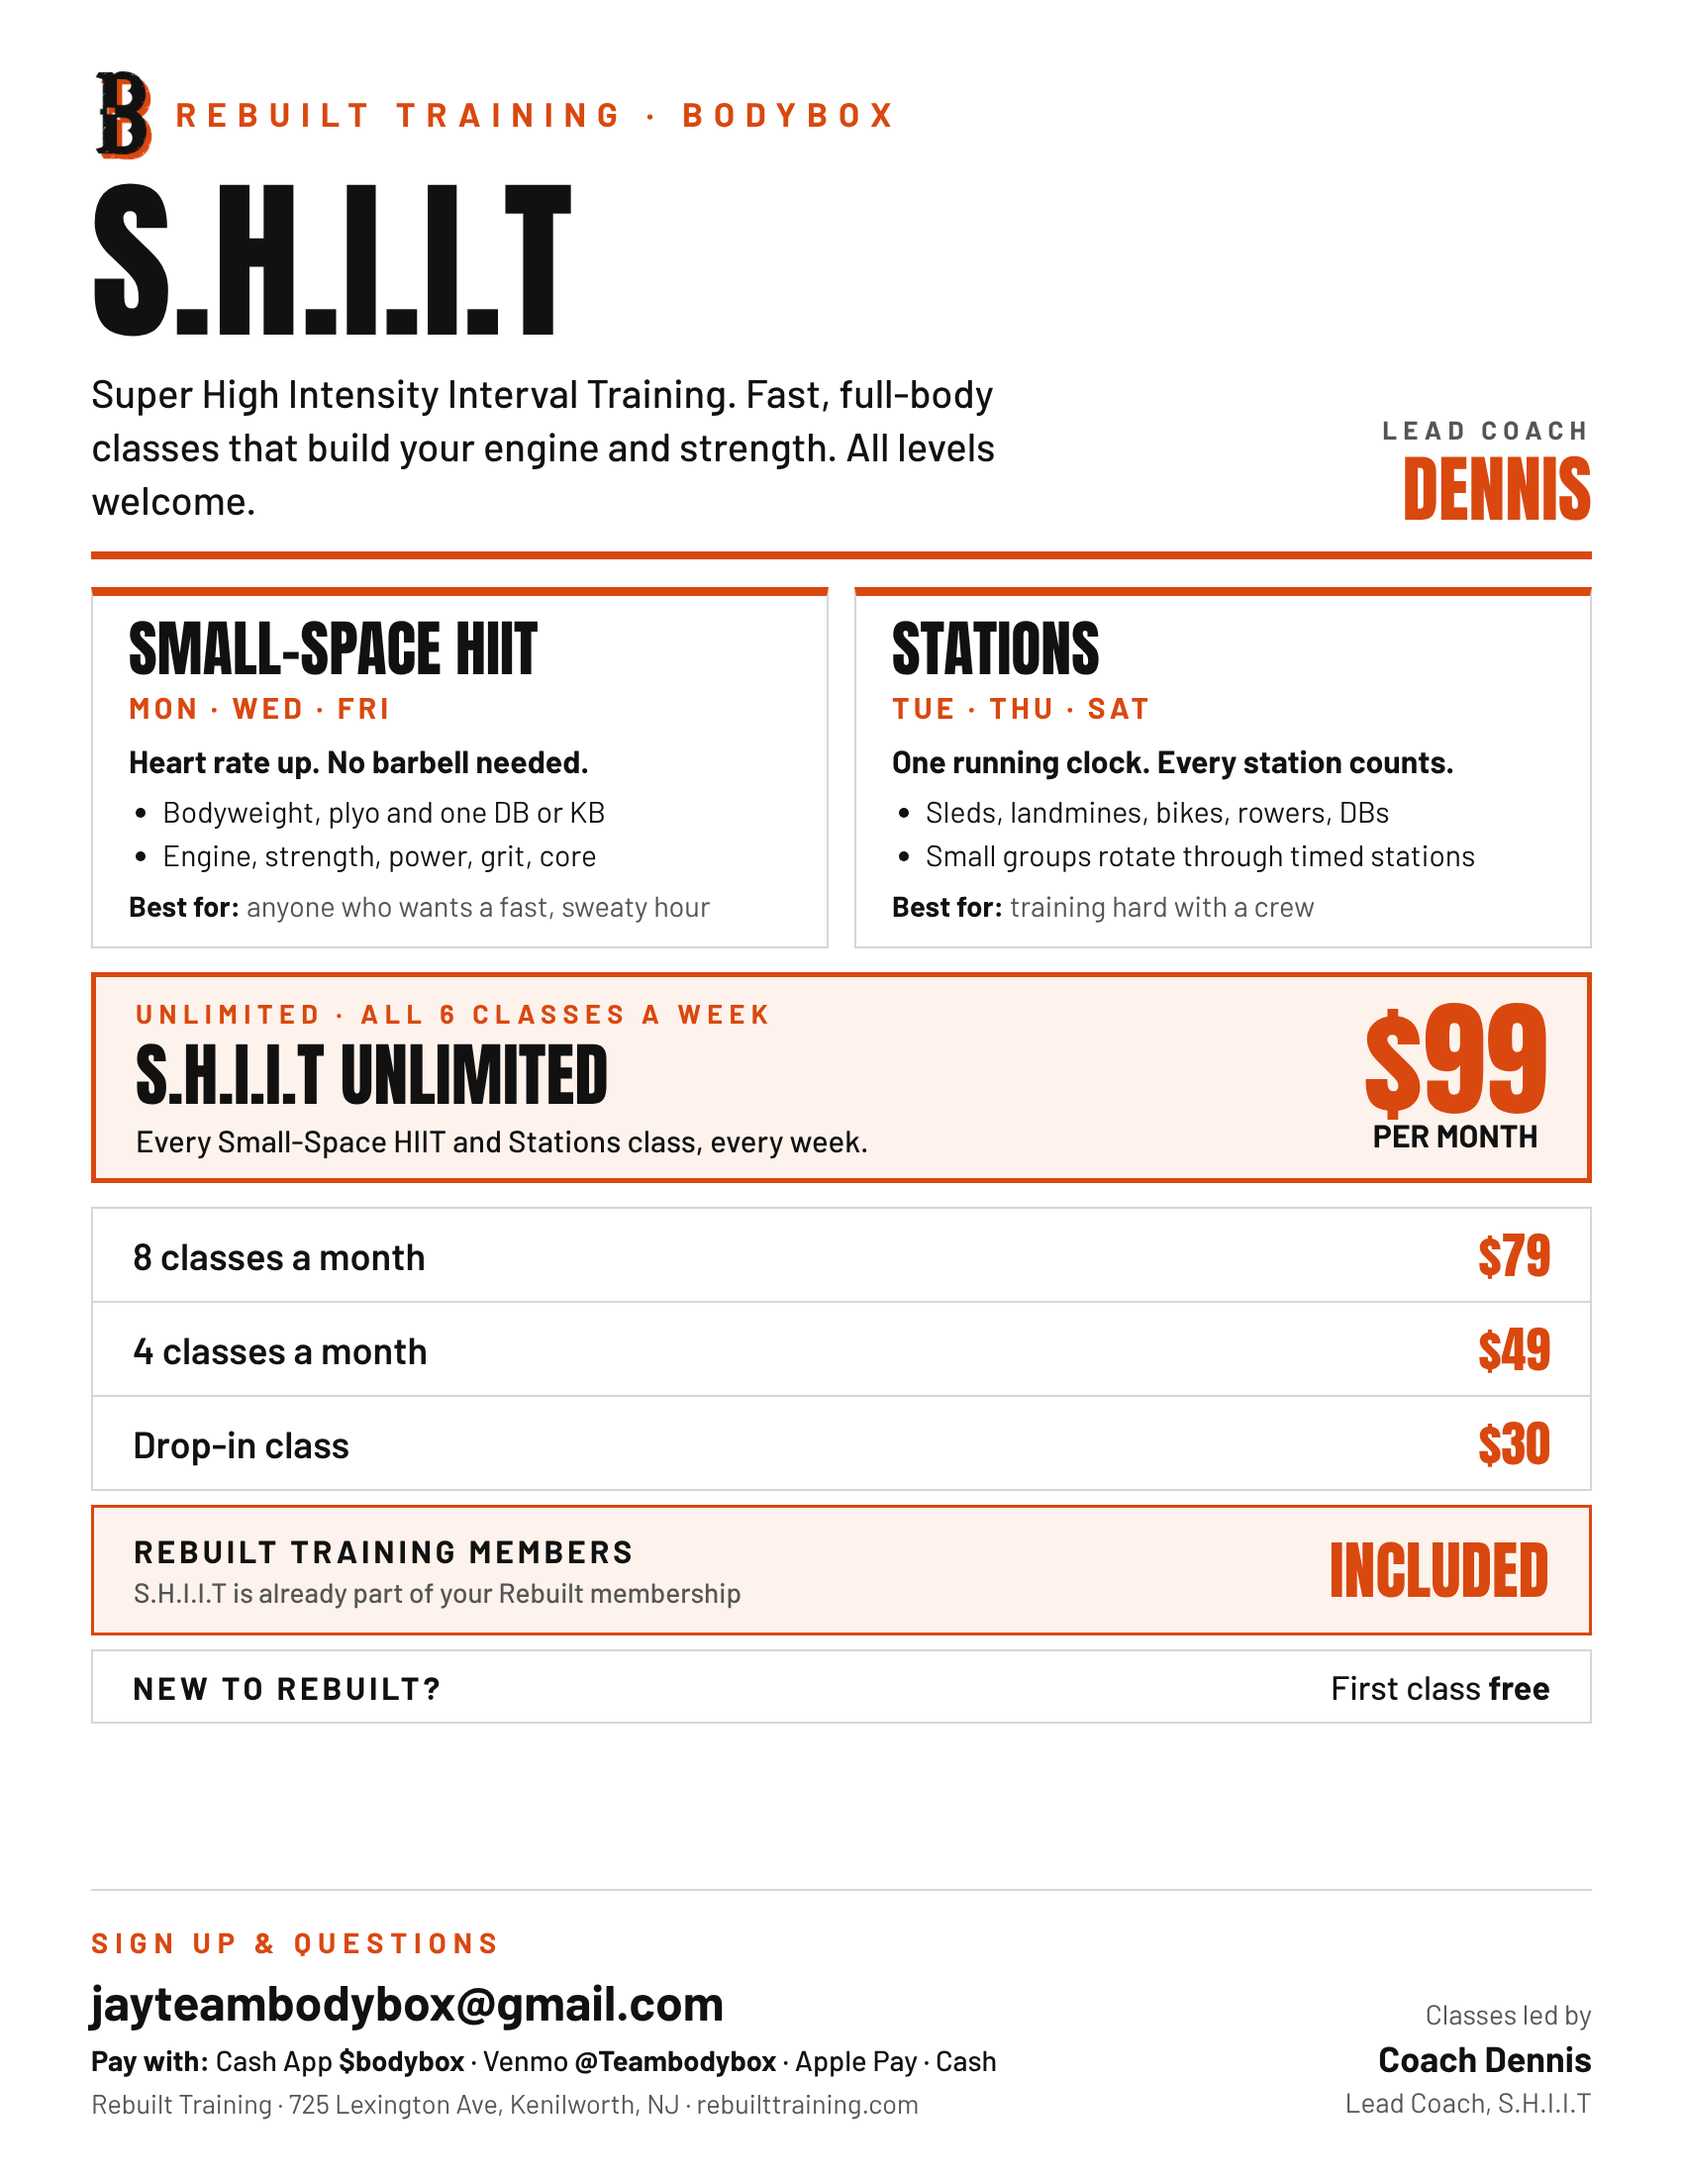
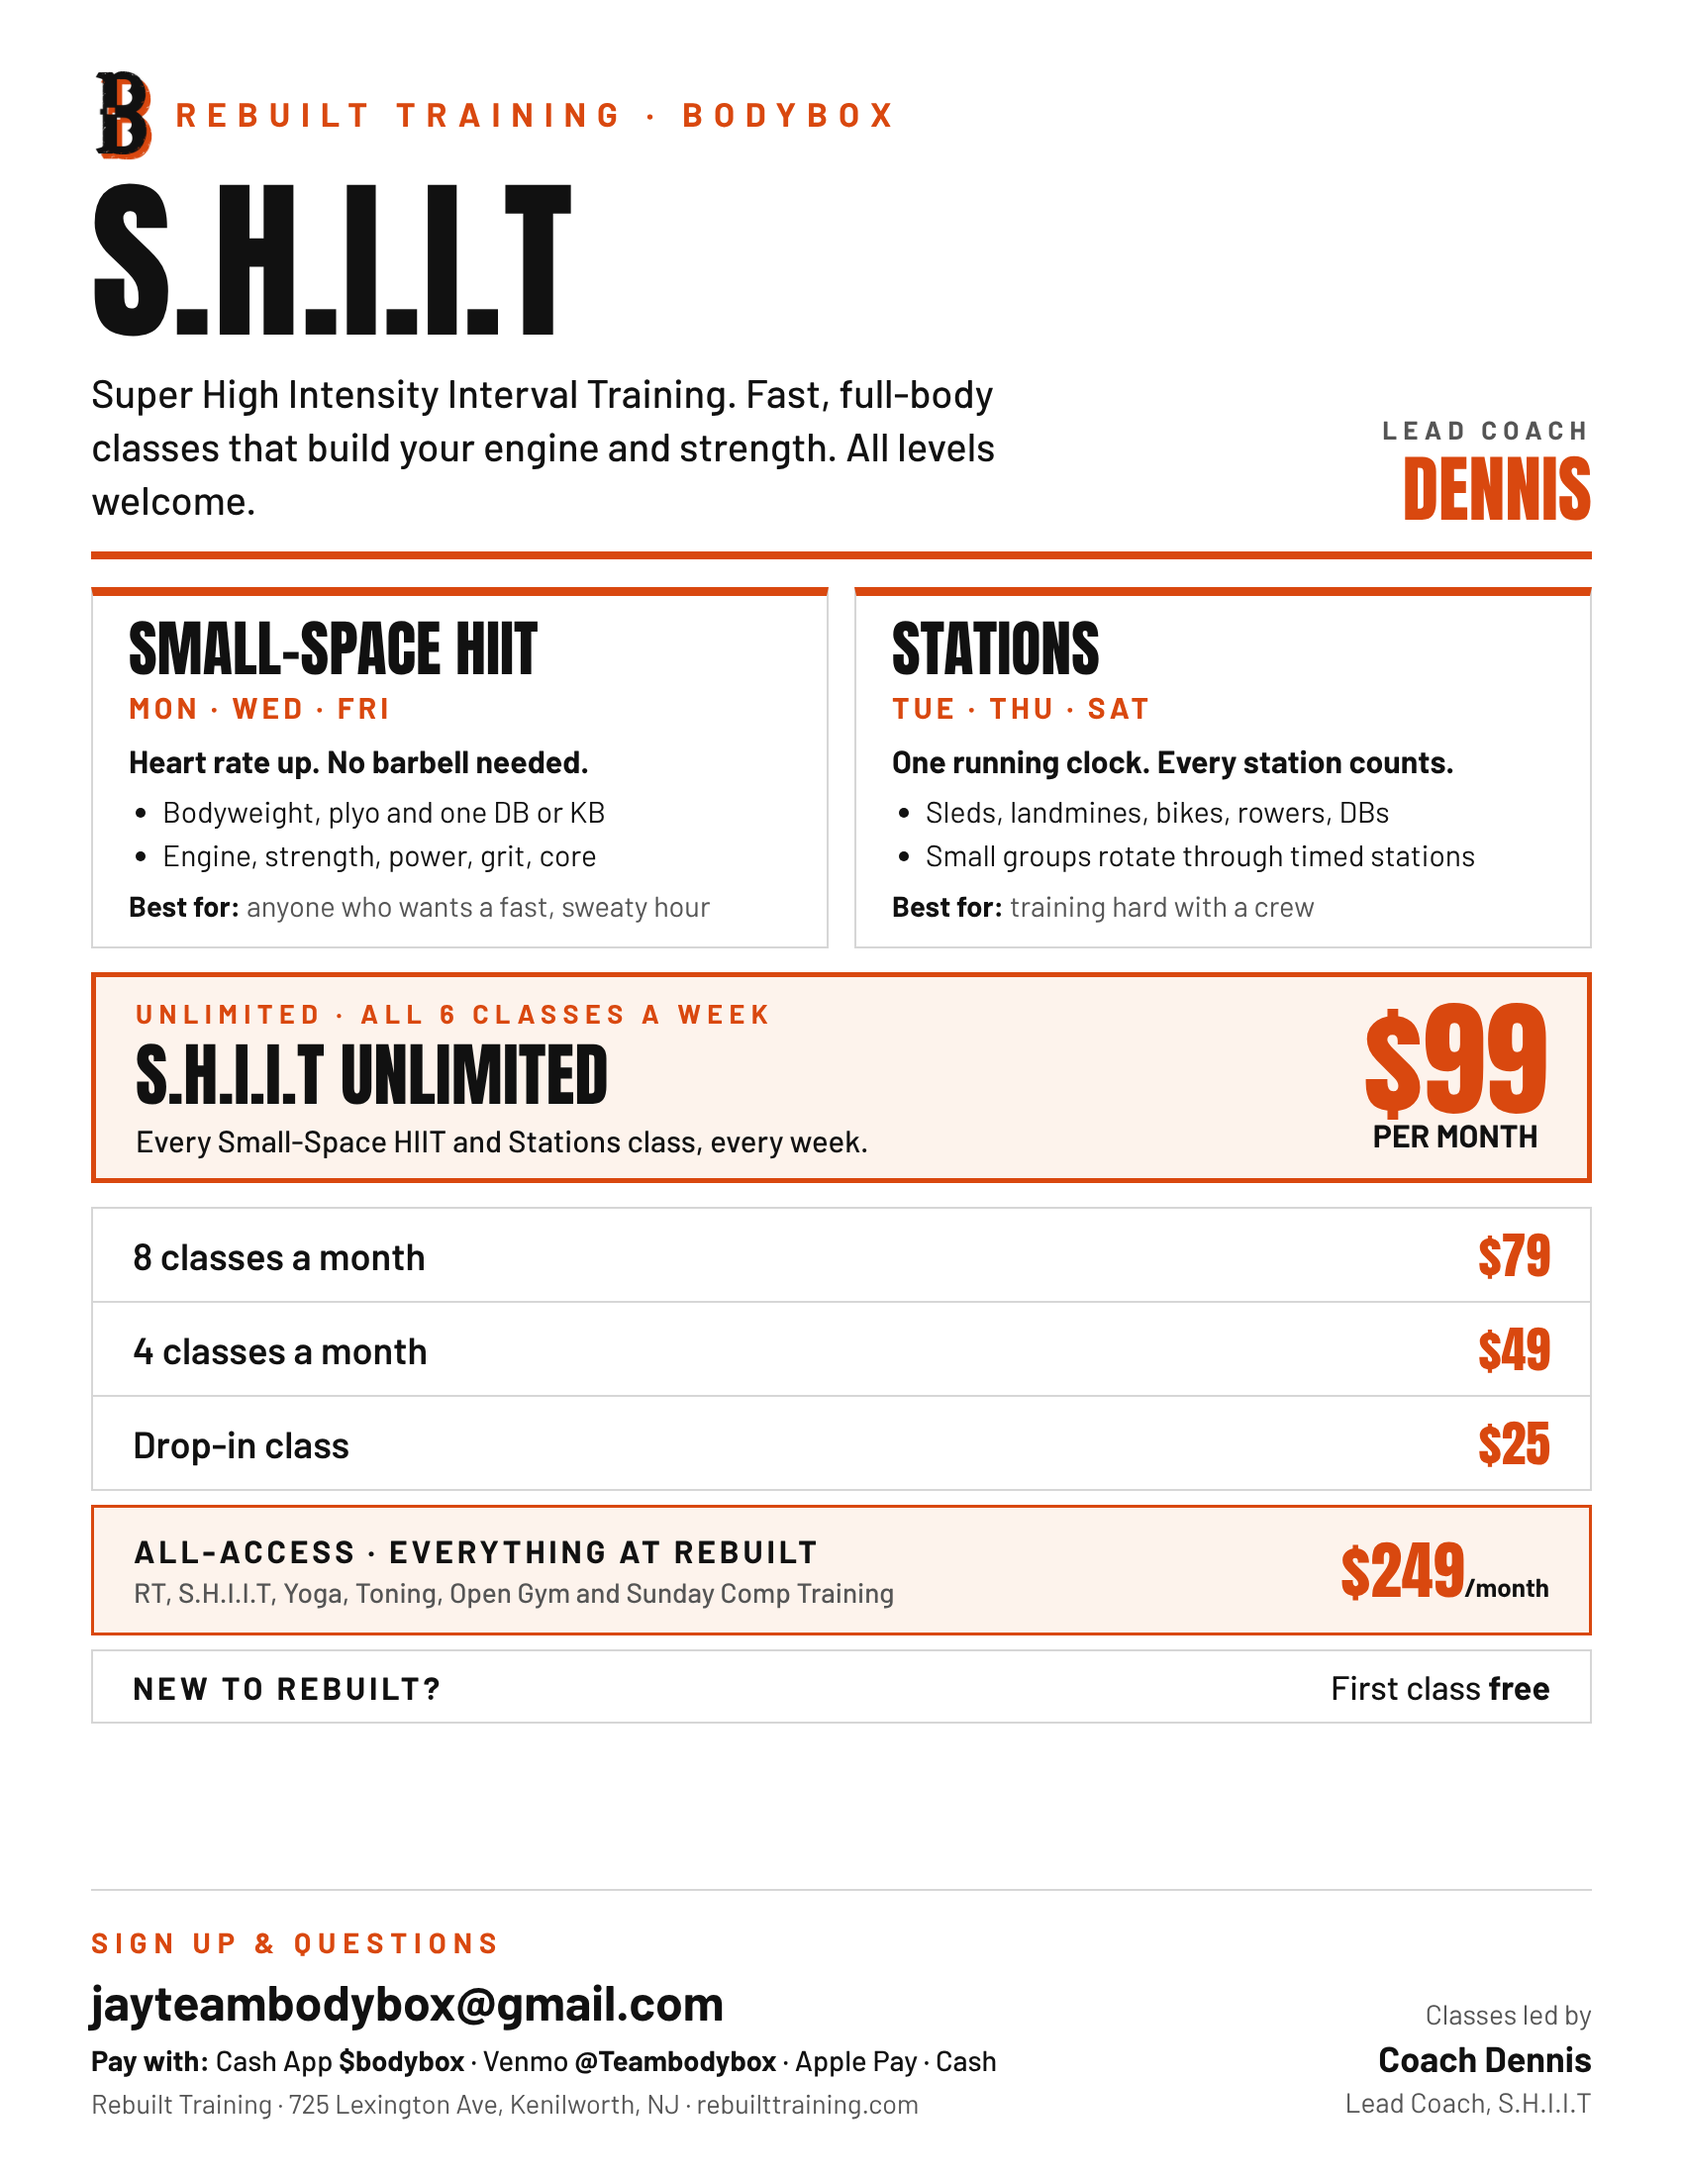
S.H.I.I.T flyer back to the October plan (drop-in $25, All-Access $249); staff card for admins with no programs; Jameson's contact email in payment messages
Claude-Session: https://claude.ai/code/session_017vtccbFEVB3hDaqVSYQ9np

Changed region(s): [[0.0624, 0.7109, 0.53, 0.7418], [0.7794, 0.7109, 0.9353, 0.7418], [0.9041, 0.6491, 0.9353, 0.68]]

diff --git a/admin/index.html b/admin/index.html
@@ -160,7 +160,7 @@ const PROGS = [['comp','Athlete Comp'],['build','Building'],['cardio','Cardio'],
 const PERSONAL = ['personal','Personal'];
 const PLANS = { comp:'Athlete Comp', build:'Body Box Building', cardio:'Cardio', garage:'Garage Box', all3:'All 3 Programs', coach:'Personal Coaching', staff:'Coach access' };
 const PLAN_PROGS = { comp:['comp'], build:['build'], cardio:['cardio'], garage:['garage'], all3:['comp','build','cardio'], coach:['comp','build','cardio'] };
-const PRICE_DEFAULT = 'BODYBOX prices (per month)\n- One program (Athlete Comp, Body Box Building or Cardio): $35\n- All 3 programs: $69\n- All 3 programs + personal programming from Coach Reef: $129\n- Garage Box: $25\nPayment is due on the 1st of every month. If it isn\'t in by 7:59 PM on the 1st, your programming pauses. Pay by the 5th and it comes right back.\nPayments and account questions: message Jameson in the app chat or email teambodybox@gmail.com';
+const PRICE_DEFAULT = 'BODYBOX prices (per month)\n- One program (Athlete Comp, Body Box Building or Cardio): $35\n- All 3 programs: $69\n- All 3 programs + personal programming from Coach Reef: $129\n- Garage Box: $25\nPayment is due on the 1st of every month. If it isn\'t in by 7:59 PM on the 1st, your programming pauses. Pay by the 5th and it comes right back.\nPayments and account questions: message Jameson in the app chat or email jayteambodybox@gmail.com';
 
 const $ = s => document.querySelector(s), esc = s => String(s == null ? '' : s).replace(/[&<>"']/g, c => ({'&':'&amp;','<':'&lt;','>':'&gt;','"':'&quot;',"'":'&#39;'}[c]));
 const pad = n => String(n).padStart(2,'0'), ymd = d => d.getFullYear()+'-'+pad(d.getMonth()+1)+'-'+pad(d.getDate()), today = () => ymd(new Date());
@@ -370,7 +370,7 @@ const payBlock = (P, b, first) => { const c = payCfg(P), l = payLink(P, b, first
 const priceMsg = (P, txt) => { const c = payCfg(P); return (txt + (c.venmo ? '\nVenmo: https://venmo.com/u/'+c.venmo : '') + (c.other ? '\n'+c.other : '')).slice(0, 600); };
 const prices = () => priceMsg(D.bill._prices, (D.bill._prices && D.bill._prices.text) || PRICE_DEFAULT);
 const reminderText = r => { const b = D.bill[r.id] || {}, s = payState(b), first = (r.name||'').split(' ')[0];
-  return 'Hey '+first+', quick reminder: your BODYBOX payment '+(s.k === 'ok' ? 'is due '+fmtD(b.paidThrough) : 'is due')+'. If it isn\'t in by 7:59 PM on the 1st, your programming pauses. Pay by the 5th and it comes right back. Questions? Message Jameson in the app chat or email teambodybox@gmail.com' + payBlock(D.bill._prices, b, first); };
+  return 'Hey '+first+', quick reminder: your BODYBOX payment '+(s.k === 'ok' ? 'is due '+fmtD(b.paidThrough) : 'is due')+'. If it isn\'t in by 7:59 PM on the 1st, your programming pauses. Pay by the 5th and it comes right back. Questions? Message Jameson in the app chat or email jayteambodybox@gmail.com' + payBlock(D.bill._prices, b, first); };
 const markPaid = r => { const b = D.bill[r.id] || {}, nx = addMonth(b.paidThrough || firstOfMonth(today())); return saveBill(r.id, { paidThrough: nx, lastPaid: today() }).then(ok => ({ ok, nx })); };
 function wireMembers(rows){
   const V = $('#view'), byId = id => D.members.find(x => x.id === id);
@@ -436,7 +436,7 @@ function inviteEmail(v){
     '4. We approve you. Usually same day. The app opens by itself once you\'re in.\n'+
     '5. Tap Me and check your numbers.\n6. Train and log every set and score.\n\n'+
     'Put it on your home screen: on iPhone open the link in Safari, tap Share, then Add to Home Screen. Open it from there and tap Turn on so you get the 8 PM "tomorrow\'s workout is up" alert.\n\n'+
-    'YOUR FREE WEEK\nYour 7-day free trial runs '+fmtD(v.trialStart)+' to '+fmtD(trialEnd)+'. '+(v.rate ? 'Then it\'s $'+v.rate+' a month. ' : '')+'Your first payment is due '+fmtD(v.firstPay)+(v.lineUp ? ', so you\'re on the same schedule as the rest of the team (the 1st of every month)' : '')+'. Payments and account questions: message Jameson in the app chat or email teambodybox@gmail.com\n\n'+
+    'YOUR FREE WEEK\nYour 7-day free trial runs '+fmtD(v.trialStart)+' to '+fmtD(trialEnd)+'. '+(v.rate ? 'Then it\'s $'+v.rate+' a month. ' : '')+'Your first payment is due '+fmtD(v.firstPay)+(v.lineUp ? ', so you\'re on the same schedule as the rest of the team (the 1st of every month)' : '')+'. Payments and account questions: message Jameson in the app chat or email jayteambodybox@gmail.com\n\n'+
     'Team BodyBox\nKEEP DOING GREAT THINGS' };
 }
 let INV = null;
@@ -532,7 +532,7 @@ function renderCh(){
 const FLYERS = [
   { id:'programs', name:'BODYBOX Programs flyer', png:'bodybox-prices.png', pdf:'bodybox-prices.pdf', dl:'BODYBOX-Programs-Flyer', desc:'The programs and app prices: $35 a program, $69 for all 3, Garage Box $25, S.H.I.I.T $35 for 4 weeks, Rebuilt member prices, 7 days free.' },
   { id:'yoga', name:'Yoga & Toning flyer', png:'yoga-toning-prices.png', pdf:'yoga-toning-prices.pdf', dl:'Yoga-Toning-Flyer', desc:'Yoga & Toning classes at Rebuilt with Lead Coach Monalisa: unlimited $129, 8 a month $99, 4 a month $59, drop-in $20 ($10 members), Rebuilt Unlimited + Yoga & Toning $240, $40 member add-on, first month $59.' },
-  { id:'shiit', name:'S.H.I.I.T flyer', png:'shiit-prices.png', pdf:'shiit-prices.pdf', dl:'SHIIT-Flyer', desc:'S.H.I.I.T classes at Rebuilt with Lead Coach Dennis: unlimited $99, 8 a month $79, 4 a month $49, drop-in $30, included for Rebuilt members, first class free.' },
+  { id:'shiit', name:'S.H.I.I.T flyer', png:'shiit-prices.png', pdf:'shiit-prices.pdf', dl:'SHIIT-Flyer', desc:'S.H.I.I.T classes at Rebuilt with Lead Coach Dennis: unlimited $99, 8 a month $79, 4 a month $49, drop-in $25, All-Access $249, first class free.' },
   { id:'reef', name:'Train With Reef flyer', png:'train-with-reef.png', pdf:'', dl:'Train-With-Reef-Flyer', desc:'In-person coaching with Coach Reef at Rebuilt: 1:1 $170, 2:1 $105 each, 3:1 $85 each per session, plus remote and programs prices.' }
 ];
 // Nov 18: Jameson can upload new flyers or new versions here (stored in flyers/{id} + flyerpdfs/{id}; public read for share links)

diff --git a/app2/index.html b/app2/index.html
@@ -3238,6 +3238,7 @@ if(Array.isArray(D.named)) D.named = D.named.filter(c => !/heavy weights/i.test(
   function memberHtml2(){
     const progs = memProgs();
     if(!progs.length || memAdding){
+      if(window.__bbFire && window.__bbAdmin) return '<section class="unlock"><span class="label">Admin</span><h2>Staff account</h2><p class="how">No training programs on this account. Use <b>Members</b> and <b>Team</b> at the bottom right, the chat bubble for messages, or the full <a href="https://reefwtraining.github.io/bodybox/admin/" target="_blank" rel="noopener">admin website ↗</a>.</p></section>';
       if(window.__bbFire) return '<section class="unlock"><span class="label">Members</span><h2>Your programs are on the way</h2><p class="how">Coach Reef turns on your programs from his side. Once he does, close and reopen the app and your training shows here.</p></section>';
       return '<section class="unlock"><span class="label">Members</span><h2>'+(memAdding?'Add a program code':'Unlock your programming')+'</h2>'+
         '<p>Enter the program code you got when you signed up. Your code stays on this phone.</p>'+
@@ -5452,7 +5453,7 @@ function payState(b){
   if(late < 5) return { k:'due', t:'Due '+fmtD(pt)+(late ? ' · '+late+' day'+(late>1?'s':'')+' late' : ' · today') };
   return { k:'late', t:'Not paid since '+fmtD(pt)+' · past the 5th' };
 }
-const PRICE_DEFAULT = 'BODYBOX prices (per month)\n- One program (Athlete Comp, Body Box Building or Cardio): $35\n- All 3 programs: $69\n- All 3 programs + personal programming from Coach Reef: $129\n- Garage Box: $25\nPayment is due on the 1st of every month. If it isn\'t in by 7:59 PM on the 1st, your programming pauses. Pay by the 5th and it comes right back.\nPayments and account questions: message Jameson in the app chat or email teambodybox@gmail.com';
+const PRICE_DEFAULT = 'BODYBOX prices (per month)\n- One program (Athlete Comp, Body Box Building or Cardio): $35\n- All 3 programs: $69\n- All 3 programs + personal programming from Coach Reef: $129\n- Garage Box: $25\nPayment is due on the 1st of every month. If it isn\'t in by 7:59 PM on the 1st, your programming pauses. Pay by the 5th and it comes right back.\nPayments and account questions: message Jameson in the app chat or email jayteambodybox@gmail.com';
 // Nov 17: how athletes pay. Venmo link opens Venmo with Team BodyBox, their amount and a note filled in.
 const payCfg = P => ({ venmo: String(P && P.venmo != null ? P.venmo : 'teambodybox').replace(/^@/, '').trim(), other: P && P.other != null ? P.other : 'Also: Cash App $bodybox, Apple Pay or cash' });
 const payMonth = b => { const ds = (b && b.paidThrough && b.paidThrough >= todayStr()) ? b.paidThrough : todayStr(); return ['Jan','Feb','Mar','Apr','May','Jun','Jul','Aug','Sep','Oct','Nov','Dec'][+ds.slice(5,7)-1]; };
@@ -5504,7 +5505,7 @@ async function openPay(){
       if(await save(id, { paidThrough: nx, lastPaid: todayStr() })){ if(!r.approved || !(r.progs||[]).length) alert('Saved. Their programs are off. Turn them back on in Members.'); } draw(); });
     box.querySelectorAll('[data-price]').forEach(b => b.onclick = async () => { const r = rows.find(x => x.id === b.dataset.price); if(!confirm('Send the price sheet to '+(r.name||'them')+' in the app chat?')) return; b.disabled = true; try{ await sendDm(r.id, priceMsg(BILL._prices, prices)); b.textContent = 'Sent'; }catch(e){ b.textContent = 'Couldn\'t send'; b.disabled = false; } });
     box.querySelectorAll('[data-remind]').forEach(b => b.onclick = async () => { const r = rows.find(x => x.id === b.dataset.remind), s = payState(BILL[r.id]), first = (r.name||'').split(' ')[0];
-      const t = 'Hey '+first+', quick reminder: your BODYBOX payment '+(s.k === 'ok' ? 'is due '+fmtD(BILL[r.id].paidThrough) : 'is due')+'. If it isn\'t in by 7:59 PM on the 1st, your programming pauses. Pay by the 5th and it comes right back. Questions? Message Jameson in the app chat or email teambodybox@gmail.com' + payBlock(BILL._prices, BILL[r.id], first);
+      const t = 'Hey '+first+', quick reminder: your BODYBOX payment '+(s.k === 'ok' ? 'is due '+fmtD(BILL[r.id].paidThrough) : 'is due')+'. If it isn\'t in by 7:59 PM on the 1st, your programming pauses. Pay by the 5th and it comes right back. Questions? Message Jameson in the app chat or email jayteambodybox@gmail.com' + payBlock(BILL._prices, BILL[r.id], first);
       const msg = prompt('Reminder to '+(r.name||'them')+' (edit if you want):', t); if(!msg) return; b.disabled = true; try{ await sendDm(r.id, msg); b.textContent = 'Sent'; }catch(e){ b.textContent = 'Couldn\'t send'; b.disabled = false; } });
   };
   draw();
